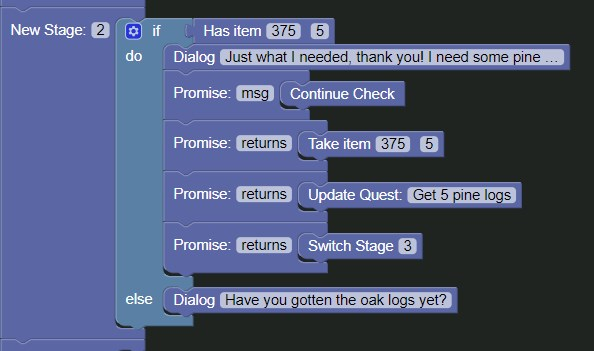
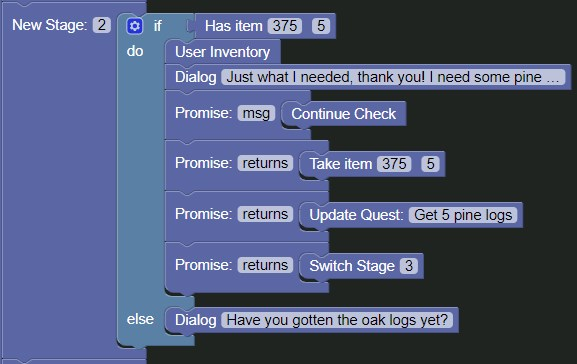
Did some minor fixes

diff --git a/blocks/quest/user_inventory.md b/blocks/quest/user_inventory.md
@@ -1,0 +1,5 @@
+# User Inventory Block
+
+![User Inventory Block](../../images/quest/user_inv.jpg)
+
+The user inventory block will create a new user inventory.
